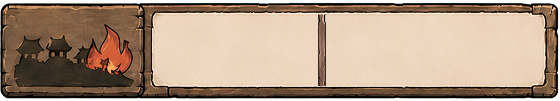
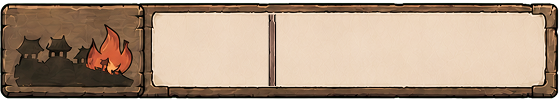
[Art] QA 퀵슬롯 배지 및 습격 표지 보정

Changed region(s): [[0.5464, 0.1485, 0.6071, 0.8614], [0.4554, 0.1485, 0.5161, 0.8614]]

diff --git a/docs/submission/ART_ITERATION_LOG.md b/docs/submission/ART_ITERATION_LOG.md
@@ -32,6 +32,7 @@ A3 정비 허브 · A4 대화로 바뀌었다. 아래 표의 A2·A3는 **옛 번
 | E1 | `assets/source/phase-e/e1_topview_wildlife_sprite_sheet.png` | 3 | 2 | **확정** | 까마귀를 비행 탑뷰로 고치고 야생동물 3종의 시점을 통일 |
 | E2 | `assets/source/phase-e/e2_projectile_sprite_sheet_chroma_v2.png` | 1 | 0 | **확정** | 투사체 5종 생성 뒤 배경만 순수 크로마키로 정규화 |
 | F-1 | `assets/source/phase-f/character/five_character_field_sd_sheet_chroma_v3.png` | 3 | 2 | **확정** | 5인 통합 시트 v2의 얼룩을 폐기하고 깨끗한 원본에서 선만 보강한 v3 채택 |
+| QA-UI-001 | `assets/final/ui/quickslot_count_badge.png` | 0 | 0 | **아트 확정·개발 등록 대기** | 2026-08-09 QA 반영. 프로젝트 책임자가 Figma에서 기존 수량 배지를 분리해 투척 퀵슬롯용으로 제작 |
 
 ## 상세 이력
 
@@ -135,3 +136,12 @@ A3 정비 허브 · A4 대화로 바뀌었다. 아래 표의 A2·A3는 **옛 번
 | 1 | 기록만 보존 | 개별 캐릭터 생성 대신 5인을 한 시트에 생성해 2등신·선 굵기·색 단계를 한 번에 맞췄다. |
 | 2 | 기록만 보존 | 필드 화풍을 맞추려 스케치 질감을 더했으나 얼룩과 종이 질감이 누적돼 폐기했다. |
 | 3 | `assets/source/phase-f/character/five_character_field_sd_sheet_chroma_v3.png` | 깨끗한 통합본에서 형태·비율·포즈·소품·배치를 유지하고 불규칙한 먹선만 보강했다. 5종 최종 PNG는 `assets/final/field_sprite/`에 분리·투명화했다. 컨셉 수정 v2·v3 대화와 파일은 채택 디자인에 반영하지 않았다. |
+
+### QA-UI-001 — 투척 퀵슬롯 수량 배지
+
+| 회차 | 파일 | 결과·변경 내용 |
+|---:|---|---|
+| 직접 편집 | `assets/final/ui/quickslot_count_badge.png` | 프로젝트 책임자가 Figma에서 `item_slot_badge.png`의 수량 배지 형태를 분리해 46×40 투명 PNG로 제작했다. 각 투척 퀵슬롯의 우하단에 유사한 위치로 배치하며 숫자는 이미지에 굽지 않고 코드에서 표시한다. AI 이미지 생성 호출은 없었다. |
+
+개발팀은 `asset.ui.quickslot_count_badge` 논리 ID의 스키마 등록과 에셋 로딩, 퀵슬롯별
+보유 수량 텍스트 합성을 추가해야 한다. 이 기록에서는 스키마와 구현을 변경하지 않는다.

diff --git a/docs/submission/CREDITS.md b/docs/submission/CREDITS.md
@@ -39,6 +39,7 @@
 | `assets/source/phase-b/sheets/b4_button_components_sheet_chroma_v2.png` | B4 빼기·더하기 기호 밝은색 보정본 | AI 편집 | GPT Image (Codex 내장, 모델명 비공개) | `IMG-B-012` 전문 참조 | 해당 없음 (AI 생성) |
 | `assets/source/phase-b/sheets/b5_closed_sliding_paper_doors_1920x1080.png` | B5 닫힌 창호지 미닫이문 단독 배경 | AI 생성 + 직접 리사이즈 | GPT Image (Codex 내장, 모델명 비공개) + System.Drawing | `IMG-B-011` 전문 참조 | 해당 없음 (AI 생성) |
 | `assets/final/ui/*.png` (B1~B5) | B 시트에서 분리한 UI 부품 17종. `button_selected`는 실제 배치에서 기능 버튼이 셋으로 줄어 옮기지 않았다 | AI 생성 + 직접 분리·투명화 | GPT Image (Codex 내장, 모델명 비공개) + Figma | `IMG-B-005`~`IMG-B-013` 참조 | 해당 없음 (AI 생성) |
+| `assets/final/ui/quickslot_count_badge.png` | 투척 퀵슬롯 우하단 수량 배지 | 기존 AI 생성 내부 에셋에서 직접 분리·편집 | Figma | `assets/final/ui/item_slot_badge.png`의 배지 형태에서 분리 제작. 원본은 `IMG-B-006`~`IMG-B-008` 참조, 별도 생성 프롬프트 없음 | 해당 없음 (AI 생성) |
 | `assets/final/ui/*.png` (A1) | HUD 시트에서 분리한 A1 UI 9종과 숲 앞 겹 1종. 시트의 행동 안내는 글자만 띄우기로 해서 옮기지 않았다 | AI 생성 + 직접 분리·투명화 | GPT Image (Codex 내장, 모델명 비공개) + Pillow | `IMG-B-001`·`IMG-B-002` 참조 | 해당 없음 (AI 생성) |
 | `assets/source/phase-b/sheets/a1_background_1920x1080_sheet.png` | A1 낮 필드 바닥 원본 시트 | AI 생성 | GPT Image (Codex 내장, 모델명 비공개) | `IMG-B-002` 전문 참조 | 해당 없음 (AI 생성) |
 | `assets/source/phase-b/sheets/a1_forest_frame_1920x1080_sheet.png` | A1 숲 뒤·앞 레이어 원본 시트 | AI 생성 | GPT Image (Codex 내장, 모델명 비공개) | `IMG-B-002` 전문 참조 | 해당 없음 (AI 생성) |

diff --git a/docs/planning/밭두렁난투_아트_디렉션.md b/docs/planning/밭두렁난투_아트_디렉션.md
@@ -2243,3 +2243,21 @@ A1 목업의 농부는 임시라 지금까지 걸리지 않았지만, F단계에
 **같은 그림을 두 곳에서 쓰려면** `raid_notice_*`를 판 없이 그림만 뽑아 `signboard`
 아래칸에도 넣어야 하는데, 이미 판을 포함해 뽑았고 `signboard`도 확정돼
 `assets/final/`에 들어가 있다. 되돌리는 값이 얻는 것보다 크다.
+
+### 14.12 투척 퀵슬롯 수량 배지 — 개발 등록 대기 (2026-08-09)
+
+QA 반영용 투척 퀵슬롯 수량 배지를 아래 경로에 둔다.
+
+```text
+assets/final/ui/quickslot_count_badge.png    46×40, 투명 PNG
+```
+
+프로젝트 책임자가 Figma에서 `item_slot_badge.png`의 수량 배지 형태를 분리해 제작했다.
+각 투척 퀵슬롯의 우하단에 기존 아이템 칸 배지와 유사하게 겹쳐 배치한다. 기본 퀵슬롯과
+선택된 퀵슬롯이 같은 배지를 재사용하며, 보유 수량 숫자는 이미지에 굽지 않고 코드에서
+가운데 정렬한다.
+
+개발팀 등록 요청 논리 ID는 `asset.ui.quickslot_count_badge`다. 이 ID는 아직 14.3절의
+스키마 고정 목록과 구현에 등록되지 않았으므로 현재 문서에서는 확정 에셋 ID로 취급하지
+않는다. 스키마·매니페스트 등록, 에셋 로딩과 수량 텍스트 합성은 개발팀에 인계하며 아트
+작업에서는 해당 파일과 제작 기록만 관리한다.

diff --git a/docs/submission/A1_ASSET_INDEX.md b/docs/submission/A1_ASSET_INDEX.md
@@ -80,6 +80,15 @@
 UI 파일은 모두 투명 PNG다. 화면 배치 크기는 파일 크기를 그대로 강제하지 않고 A1-v5의
 상대 비율을 기준으로 코드에서 조절한다.
 
+### QA 추가 에셋 — 개발 등록 대기
+
+| 개발팀 등록 요청 논리 ID | 파일 | 픽셀 크기 | 비고 |
+|---|---|---:|---|
+| `asset.ui.quickslot_count_badge` | `assets/final/ui/quickslot_count_badge.png` | 46×40 | 투척 퀵슬롯 수량 배지. `item_slot_badge.png`의 배지 형태를 기준으로 Figma에서 분리 제작했으며 각 퀵슬롯 우하단에 배치한다 |
+
+이 행은 아트 산출물 인계 기록이다. 논리 ID는 아직 스키마와 구현에 등록되지 않았으며,
+등록과 수량 텍스트 합성은 개발팀 작업이다.
+
 ## 배경 레이어
 
 | 논리 이름 | 파일 | 픽셀 크기 | 그리는 순서 |
